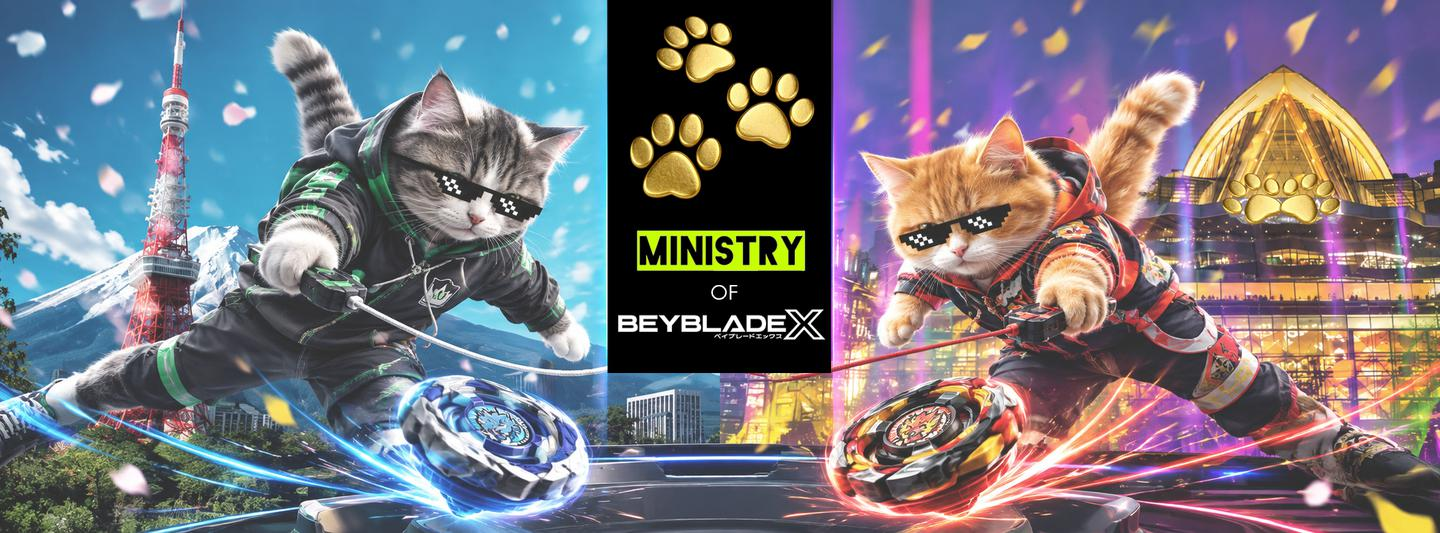
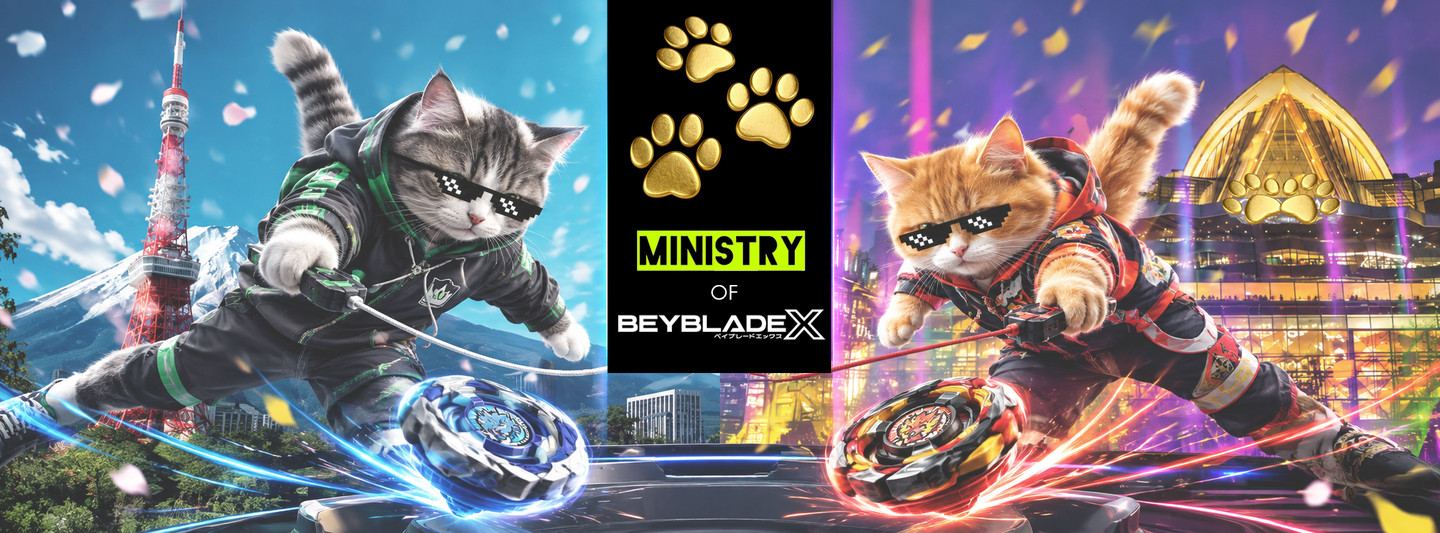
perf: instant data on repeat visits, cache winners CSV, full-color hero
- Show last tournaments/winners from localStorage at once, refresh in background (Apps Script sometimes took ~2 min)
- Apps Script caches the winners CSV for 5 minutes (already deployed as a new version)
- Re-export hero at quality 90 with 4:4:4 chroma so colors match the original
- Footer banners back to original files; resized copies were not smaller

diff --git a/index.html b/index.html
@@ -304,10 +304,10 @@
     <footer class="w-full text-center py-6 border-t border-borderGreen text-xs text-gray-400 mt-auto">
         <div class="grid md:grid-cols-2 gap-4 max-w-5xl mx-auto mb-6 px-4">
             <a href="https://beybladex-part-optimizer.ministryofbeybladex.workers.dev/" target="_blank" rel="noopener" class="block rounded-2xl overflow-hidden neon-border neon-glow hover:border-neonGreen hover:scale-[1.02] transition">
-                <img src="banner-parts-1000.jpg" width="1000" height="563" alt="รวมชิ้นส่วนทั้งหมดของ Beyblade X - Part Optimizer" loading="lazy" class="w-full h-auto">
+                <img src="banner-parts.jpg" width="1200" height="676" alt="รวมชิ้นส่วนทั้งหมดของ Beyblade X - Part Optimizer" loading="lazy" class="w-full h-auto">
             </a>
             <a href="https://ministryofbeybladex.blogspot.com/" target="_blank" rel="noopener" class="block rounded-2xl overflow-hidden neon-border neon-glow hover:border-neonGreen hover:scale-[1.02] transition">
-                <img src="banner-blog-1000.jpg" width="1000" height="563" alt="ข้อมูล Beyblade X สำหรับมือใหม่ - Ministry of Beyblade X Blogspot" loading="lazy" class="w-full h-auto">
+                <img src="banner-blog.jpg" width="1200" height="676" alt="ข้อมูล Beyblade X สำหรับมือใหม่ - Ministry of Beyblade X Blogspot" loading="lazy" class="w-full h-auto">
             </a>
         </div>
         <p class="mb-3"><a href="https://altmind.vercel.app/" target="_blank" rel="noopener" class="text-neonGreen hover:underline">แพ้แล้วท้อ? ฝึกใจกับ AltMind</a></p>
@@ -496,6 +496,21 @@
             container.appendChild(div);
         });
 
+        // Apps Script ตอบช้าเป็นบางครั้ง (เคยวัดได้ ~2 นาที): แสดงข้อมูลรอบก่อนจาก localStorage ทันที
+        // แล้วโหลดใหม่เบื้องหลัง ถ้าโหลดใหม่ไม่สำเร็จแต่มีของเดิม ก็ใช้ของเดิมต่อ
+        async function cachedLoad(key, load, apply) {
+            let cached = null;
+            try { cached = localStorage.getItem(key); } catch {}
+            if (cached) {
+                try { apply(cached); } catch { cached = null; }
+            }
+            let fresh;
+            try { fresh = await load(); }
+            catch (error) { if (cached) { console.warn('Using cached ' + key, error); return; } throw error; }
+            if (fresh !== cached) apply(fresh);
+            try { localStorage.setItem(key, fresh); } catch {}
+        }
+
         // Fetch Data from Google Sheets
         async function fetchTournaments() {
             const container = document.getElementById('eventListContainer');
@@ -514,12 +529,15 @@
             }
 
             try {
-                const response = await fetch(WEB_APP_URL);
-                const result = await response.json();
-                if (!result.ok) throw new Error(result.error);
-                tournaments = result.data;
-                fillProvinces();
-                filterData();
+                await cachedLoad('bbx-tournaments', async () => {
+                    const result = await (await fetch(WEB_APP_URL)).json();
+                    if (!result.ok) throw new Error(result.error);
+                    return JSON.stringify(result.data);
+                }, text => {
+                    tournaments = JSON.parse(text);
+                    fillProvinces();
+                    filterData();
+                });
             } catch (error) {
                 console.error('Error fetching data:', error);
                 countBadge.textContent = 'โหลดข้อมูลไม่สำเร็จ';
@@ -729,22 +747,29 @@
 
         async function fetchCombos() {
             try {
-                const response = await fetch(COMBO_CSV_URL);
-                if (!response.ok) throw new Error(response.status);
-                const rows = parseCSV(await response.text());
-                usage = countUsage(rows);
-                renderUsage(false);
-                fillComboSuggestions(rows);
-                combos = rows
-                    .filter(r => r.date && r.winner_name)
-                    .map(r => ({ ...r, date: dmyToIso(r.date) }))
-                    .sort((a, b) => a.date < b.date ? 1 : a.date > b.date ? -1 : 0);
-                renderCombos(false);
+                await cachedLoad('bbx-winners', async () => {
+                    const response = await fetch(COMBO_CSV_URL);
+                    const text = await response.text();
+                    if (!response.ok || !text.startsWith('"date"')) throw new Error(response.status);
+                    return text;
+                }, applyCombos);
             } catch (error) {
                 console.error('Error fetching combos:', error);
                 document.getElementById('comboCount').textContent = 'โหลดข้อมูลไม่สำเร็จ';
                 document.getElementById('usageNote').textContent = 'โหลดข้อมูลไม่สำเร็จ';
             }
+        }
+
+        function applyCombos(text) {
+            const rows = parseCSV(text);
+            usage = countUsage(rows);
+            renderUsage(false);
+            fillComboSuggestions(rows);
+            combos = rows
+                .filter(r => r.date && r.winner_name)
+                .map(r => ({ ...r, date: dmyToIso(r.date) }))
+                .sort((a, b) => a.date < b.date ? 1 : a.date > b.date ? -1 : 0);
+            renderCombos(false);
         }
 
         function renderCombos(showAll) {
